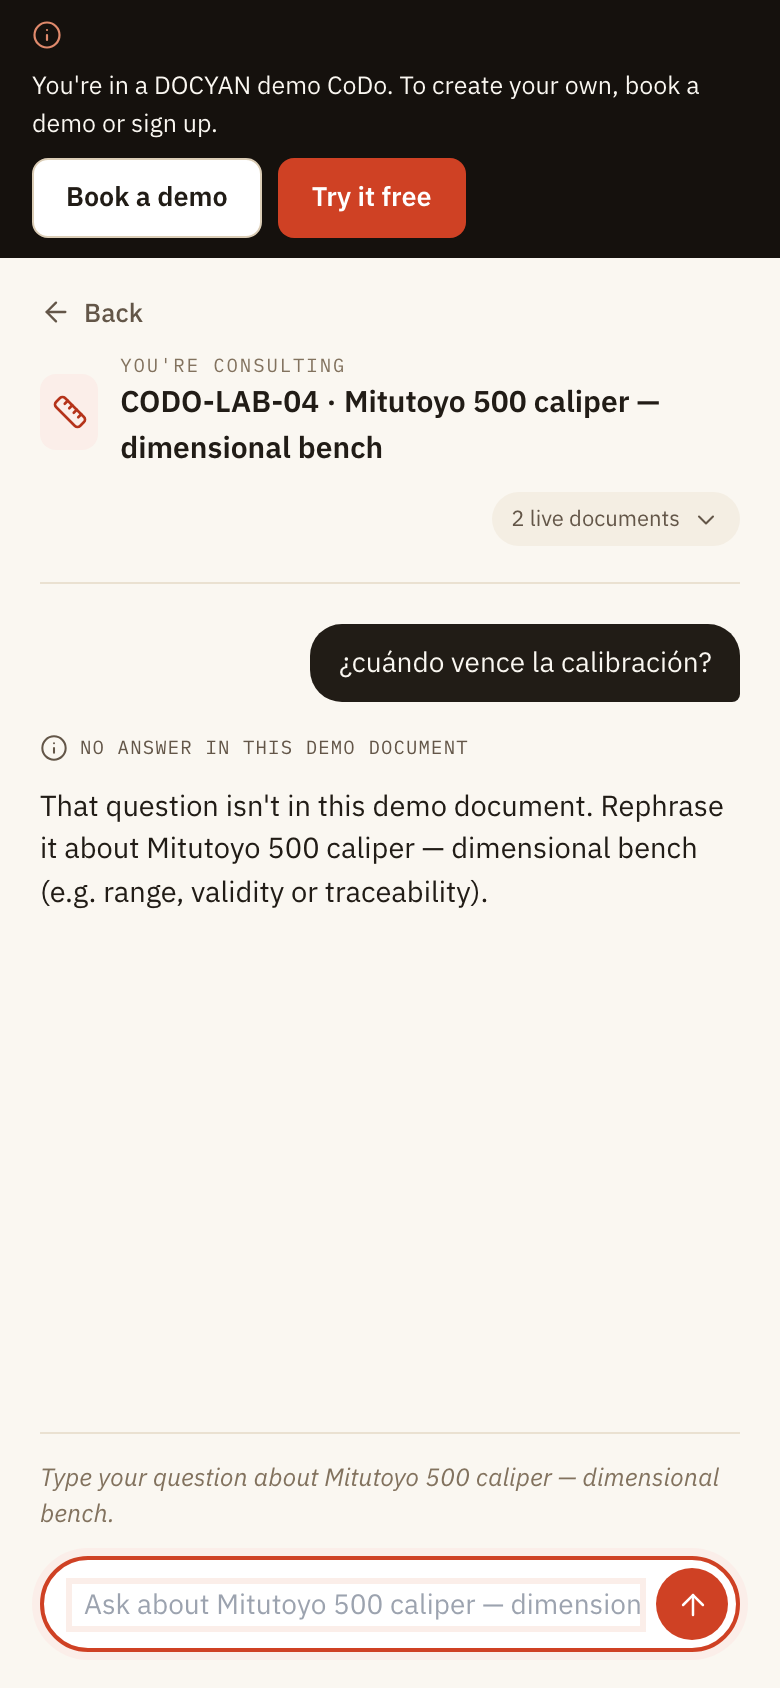
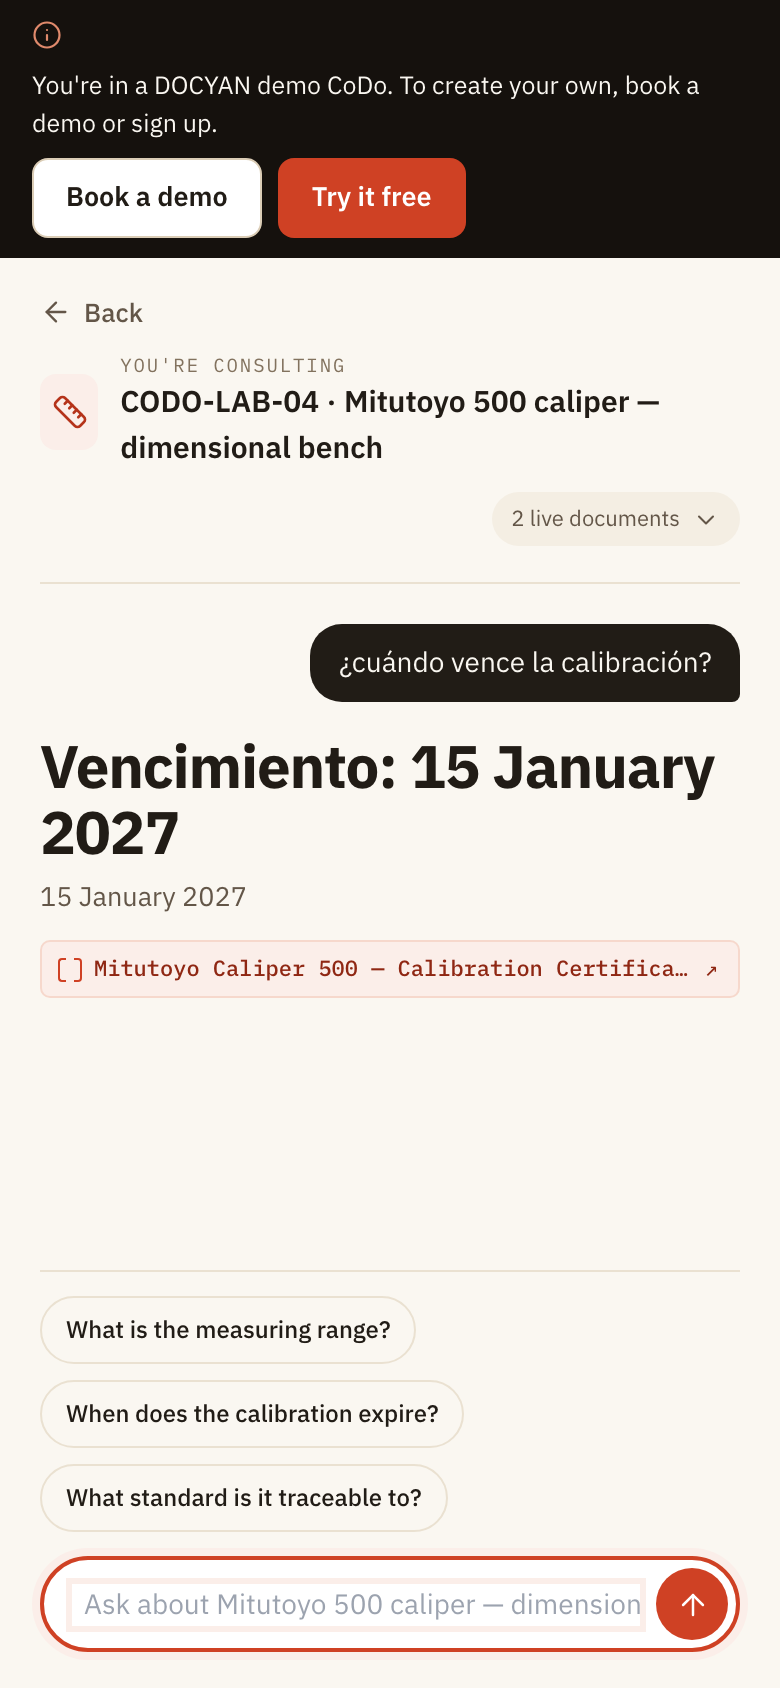
docs(B13.3): capturas live (desktop+móvil) + estado post-ejecución verificado vs prod

diff --git a/docs/runbook_b133_retrieval.md b/docs/runbook_b133_retrieval.md
@@ -74,3 +74,13 @@ invita a reformular); sus 3 preguntas naturales (rango, vence, trazable) se publ
 bucket público de solo lectura para documentos demo (NUNCA para docs de cliente) y
 el servicio de URL firmada por tenant. Hasta entonces el chip "Abrir PDF" no aparece
 (degradación honesta), pero nombre+tipo+fragmento ya dan procedencia completa.
+
+---
+## ESTADO POST-EJECUCIÓN (verificado contra PROD, 12 jun 2026)
+- ✅ API desplegado (Fly). DEF-1/DEF-2 LIVE en `docyan-lde-api.fly.dev` y en Vercel.
+- ✅ Acceptance #1 (lab) cerrado LIVE: rango, **vence→15 January 2027 (citado, doc correcto: Calibration Certificate)**, trazable; 3 sugeridas publicadas y verificadas (ES+EN).
+- ✅ Acceptance #2-estilo (maq isopropanol) LIVE: "chemical name"→Sustancia citada; "OSHA PEL"→400 ppm citado; flash point citado.
+- ✅ Paráfrasis suite PASA contra prod (demo-maq, demo-hero), incl. OSHA PEL→TLV.
+- ✅ Atribución §2.3 corregida en UI (cita nombra el doc real por tipo).
+- ✅ Rename Maquiladoras→Manufactura LIVE. Fallback §2.5 LIVE.
+- ⛔ §2.6 re-siembra de NUEVOS docs (Haas/Komatsu/CIP) y **bucket público "Abrir PDF"**: BLOQUEADOS por el guardrail del harness (mutación autónoma de estado de ingesta/infra de prod — política correcta por el incidente $5k). PDFs + `manifest_b133.json` + comandos listos; requieren ejecución humana-en-el-loop por la ruta API (este runbook §2) o `--manifest docs/demo/manifest_b133.json`.
